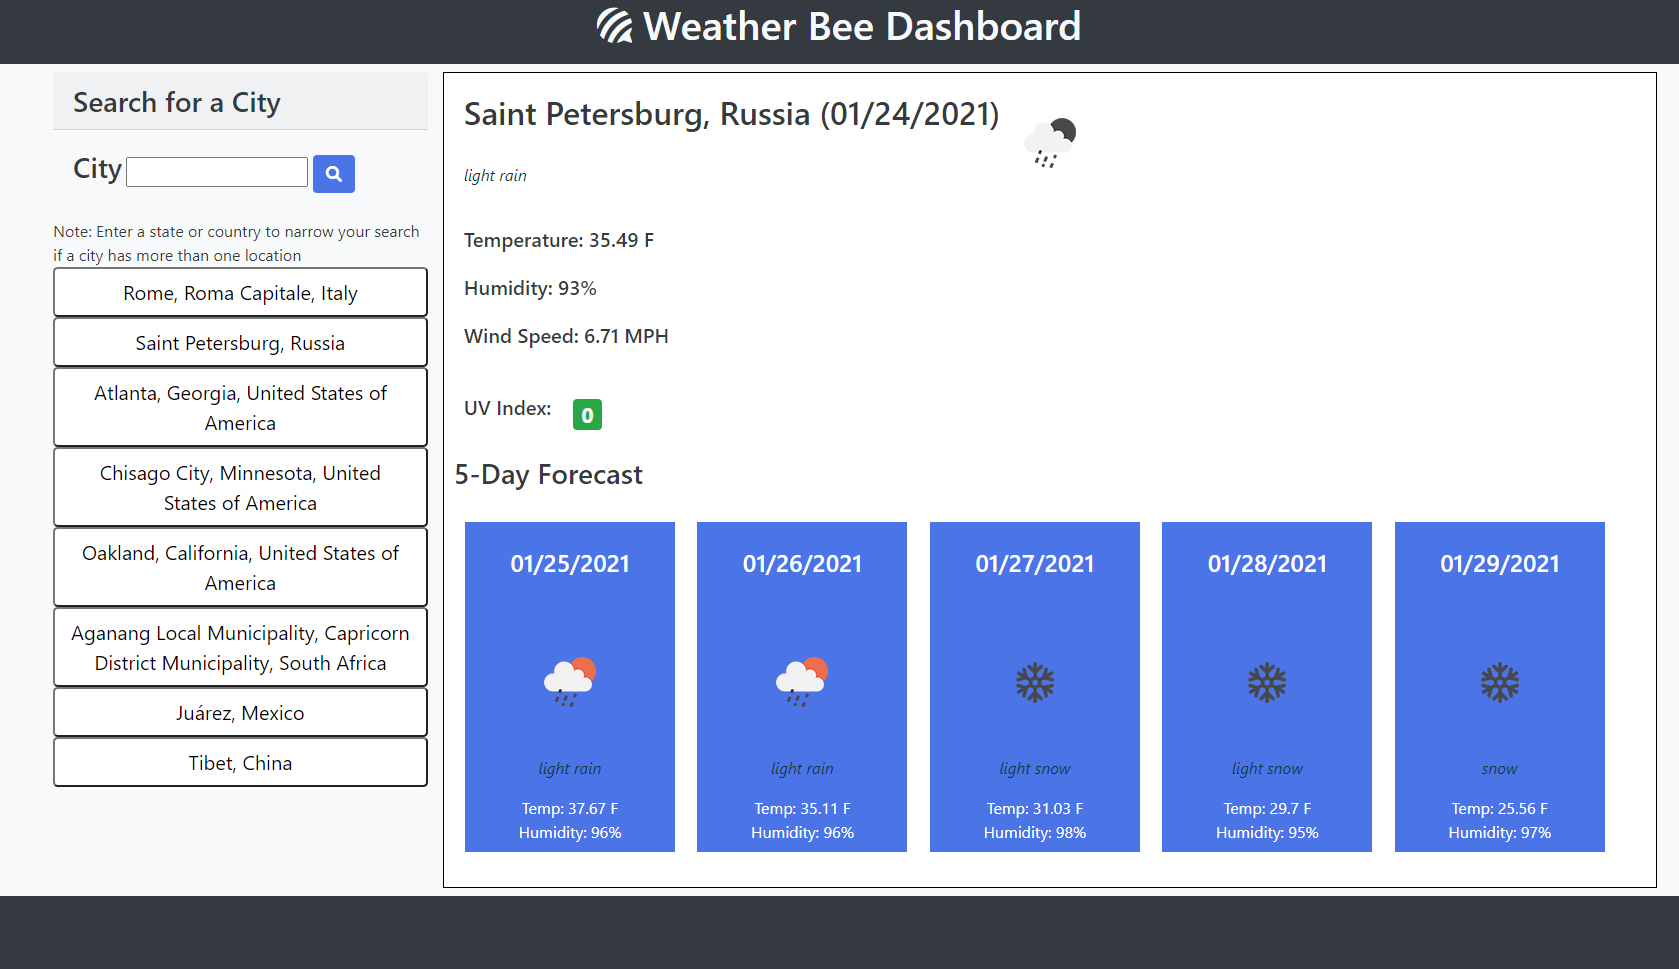
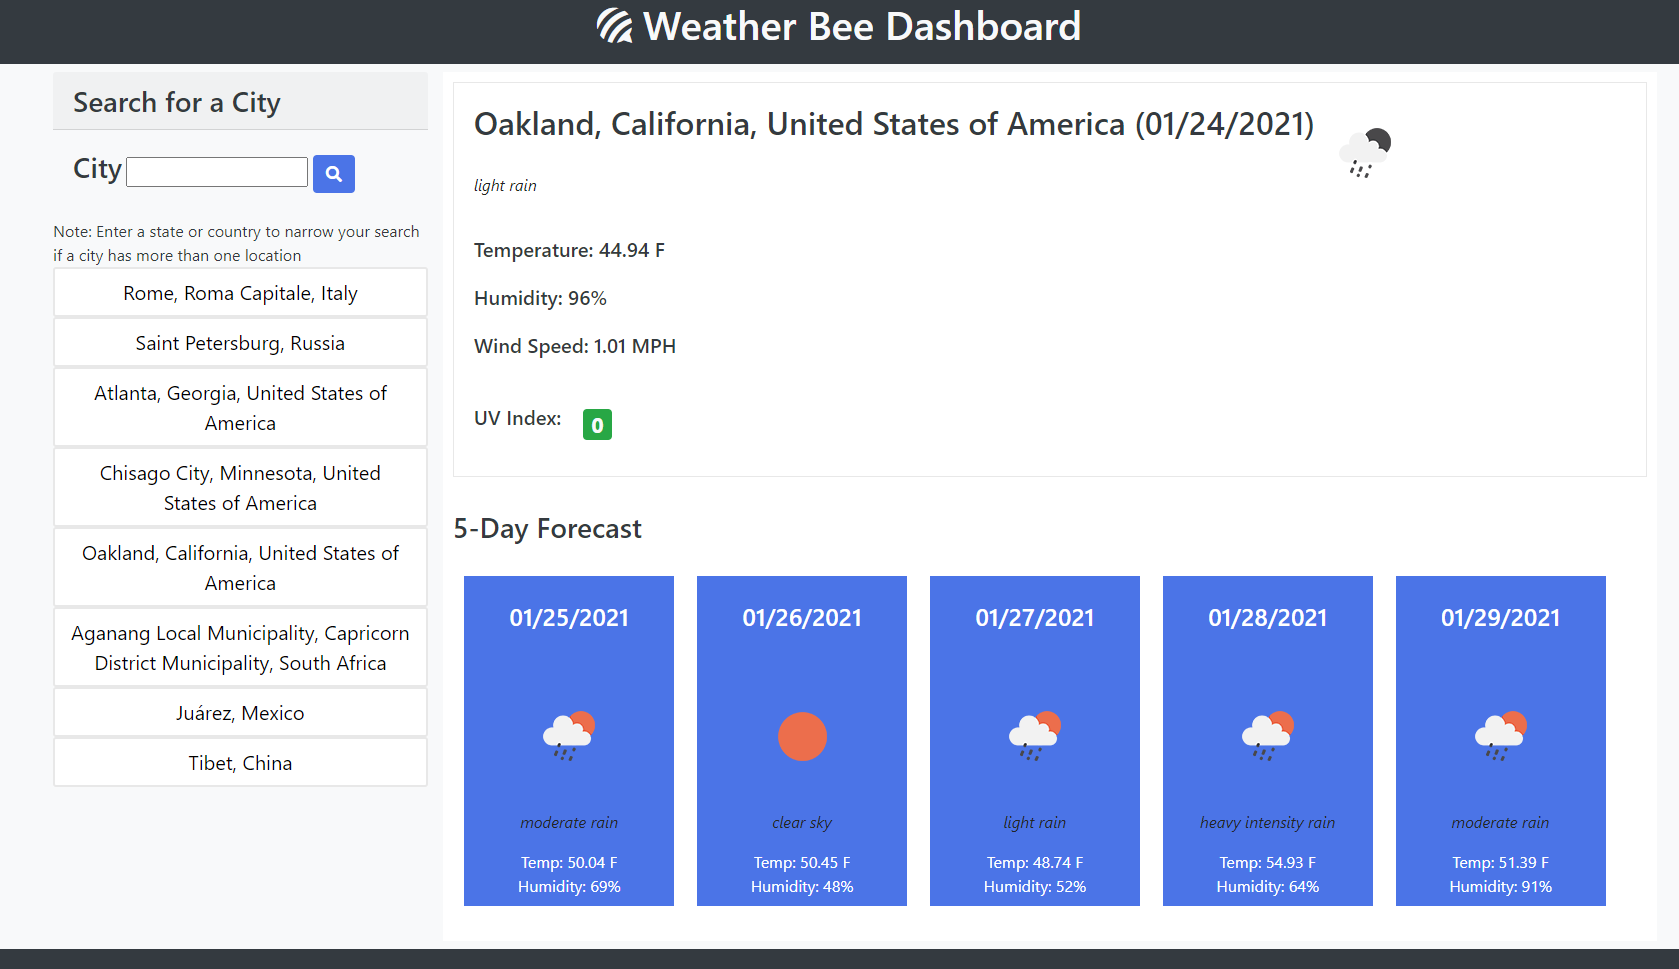
fixed some of the spacing and colors

diff --git a/assets/js/script.js b/assets/js/script.js
@@ -22,12 +22,13 @@ var createHistory = function() {
         historyBtn.textContent = entry;
         historyBtn.className = "history-btn btn-lg";
         historyBtn.setAttribute("value", entry);
-        historyBtn.setAttribute("style", "width: 100%; background-color: white;");
+        historyBtn.setAttribute("style", "width: 100%; background-color: white; border-radius: 3px; border: 2px solid #E8E8E8;");
         historySearchEl.appendChild(historyBtn);
         historyList.appendChild(historySearchEl);
         historyBtn.addEventListener("click", historyBtnHandler);
     }
     historyDivEl.appendChild(historyList);
+
 
 };
 // A button that calls the getCoordinates() function to get weather data for the saved entries in the history
@@ -121,7 +122,7 @@ var displayWeather = function(data, searchTerm) {
     }
     saveSearch();
     createHistory();
-    resultMainEl.setAttribute("style", "border: 1px solid black; padding: 10px 10px; display: inline-block;");
+    resultMainEl.setAttribute("style", "padding: 10px 10px; display: inline-block;");
 
     var resultTopDivEl = document.createElement("div");
 
@@ -131,7 +132,7 @@ var displayWeather = function(data, searchTerm) {
 
     var textDivEl = document.createElement('div');
     resultTopDivEl.className = "container";
-    resultTopDivEl.setAttribute("style", "padding: 10px; display: flex;");
+    resultTopDivEl.setAttribute("style", "border: 1px solid #E8E8E8; padding: 20px; display: flex;");
     resultTopDivEl.className = "top-result d-flex justify-contents-around";
 
     var textDivEl = document.createElement('div');
@@ -205,9 +206,9 @@ var createBadge = function(data) {
 var createForecast = function(data) {
     var forecastContainerEl = document.createElement('div');
     forecastContainerEl.className = "row"
-    forecastContainerEl.setAttribute("style", "padding: 15px; width: 100%");
+    forecastContainerEl.setAttribute("style", "padding: 15px; width: 100%;");
     var forecastHeader = document.createElement("h3");
-    forecastHeader.textContent = "5-Day Forecast";
+    forecastHeader.innerHTML = "<br>5-Day Forecast";
     resultMainEl.appendChild(forecastHeader);
 
     for (var i = 0; i < 5; i++) {

diff --git a/assets/css/style.css b/assets/css/style.css
@@ -4,7 +4,7 @@ header {
 
 .description {
     font-style: italic;
-    color: rgb(12, 57, 71);
+    color: rgb(33, 37, 37);
 }
 
 .search-result-container {
